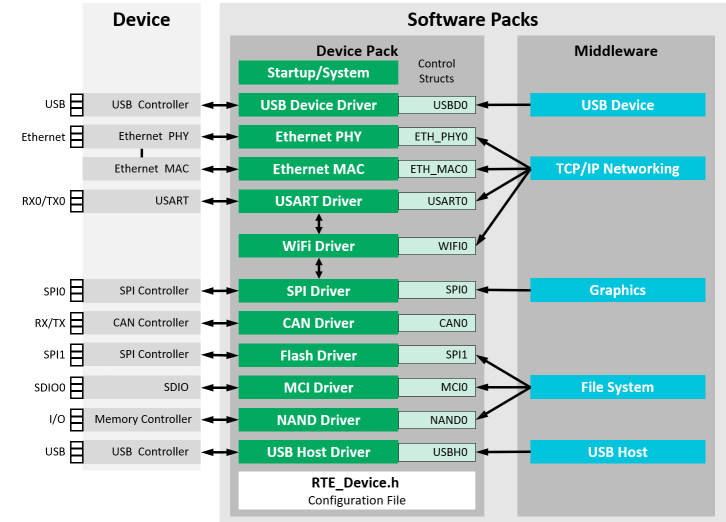
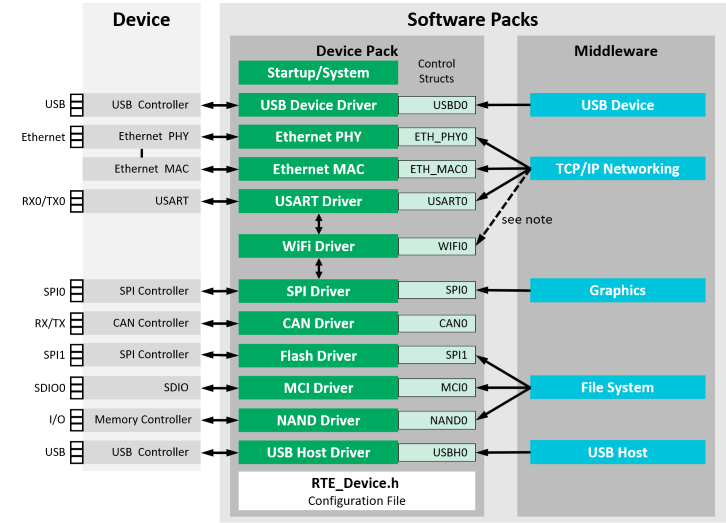
Clarified the usage of WiFi and network component

diff --git a/doxygen/driver/src/Driver_WiFi.c b/doxygen/driver/src/Driver_WiFi.c
@@ -790,9 +790,10 @@ wifi->Deactivate (0U);
 \ingroup wifi_interface_gr
 \brief Transfer Ethernet frames by WiFi module.
 \details The \ref wifi_bypass_gr functions are an optional interface and enable the transmission of
-Ethernet frames with WiFi modules. The use of this interface requires that the IP stack is running
-on the microcontroller. The internal IP stack of the WiFi module is therefore not used, and this
-usually means that the \ref wifi_socket_gr functions can not be used.
+Ethernet frames with WiFi modules. The use of this interface requires that the TCP/IP stack is running
+on the microcontroller (usually a third-party or open-source networking component). The internal TCP/IP
+stack of the WiFi module is therefore not used, and this usually means that the \ref wifi_socket_gr
+functions can not be used.
 @{
 */
 
